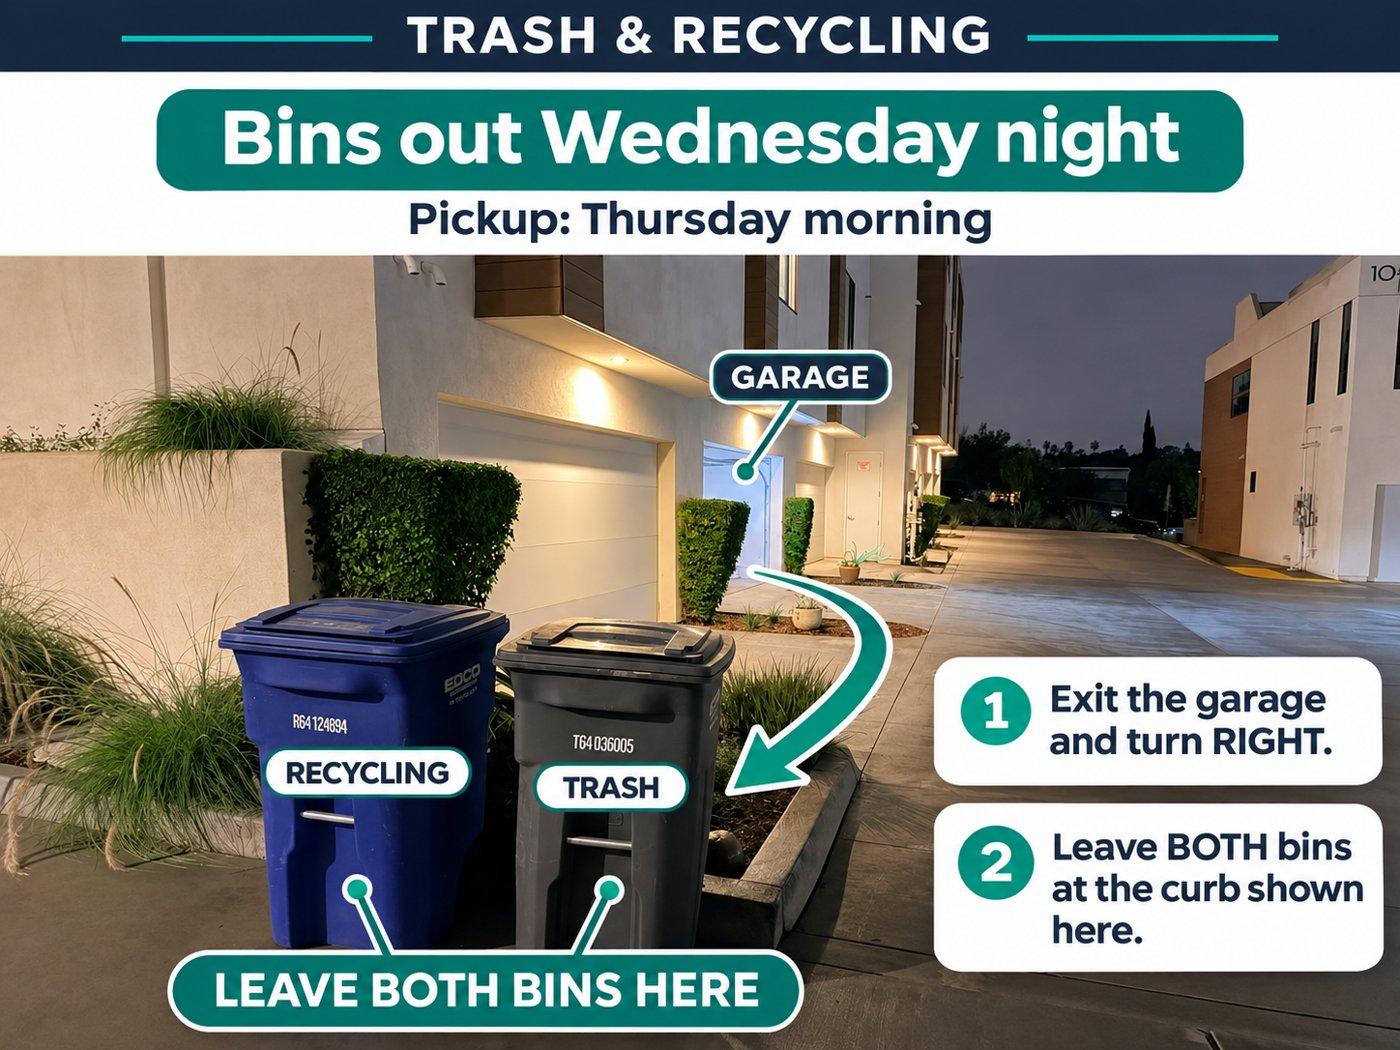
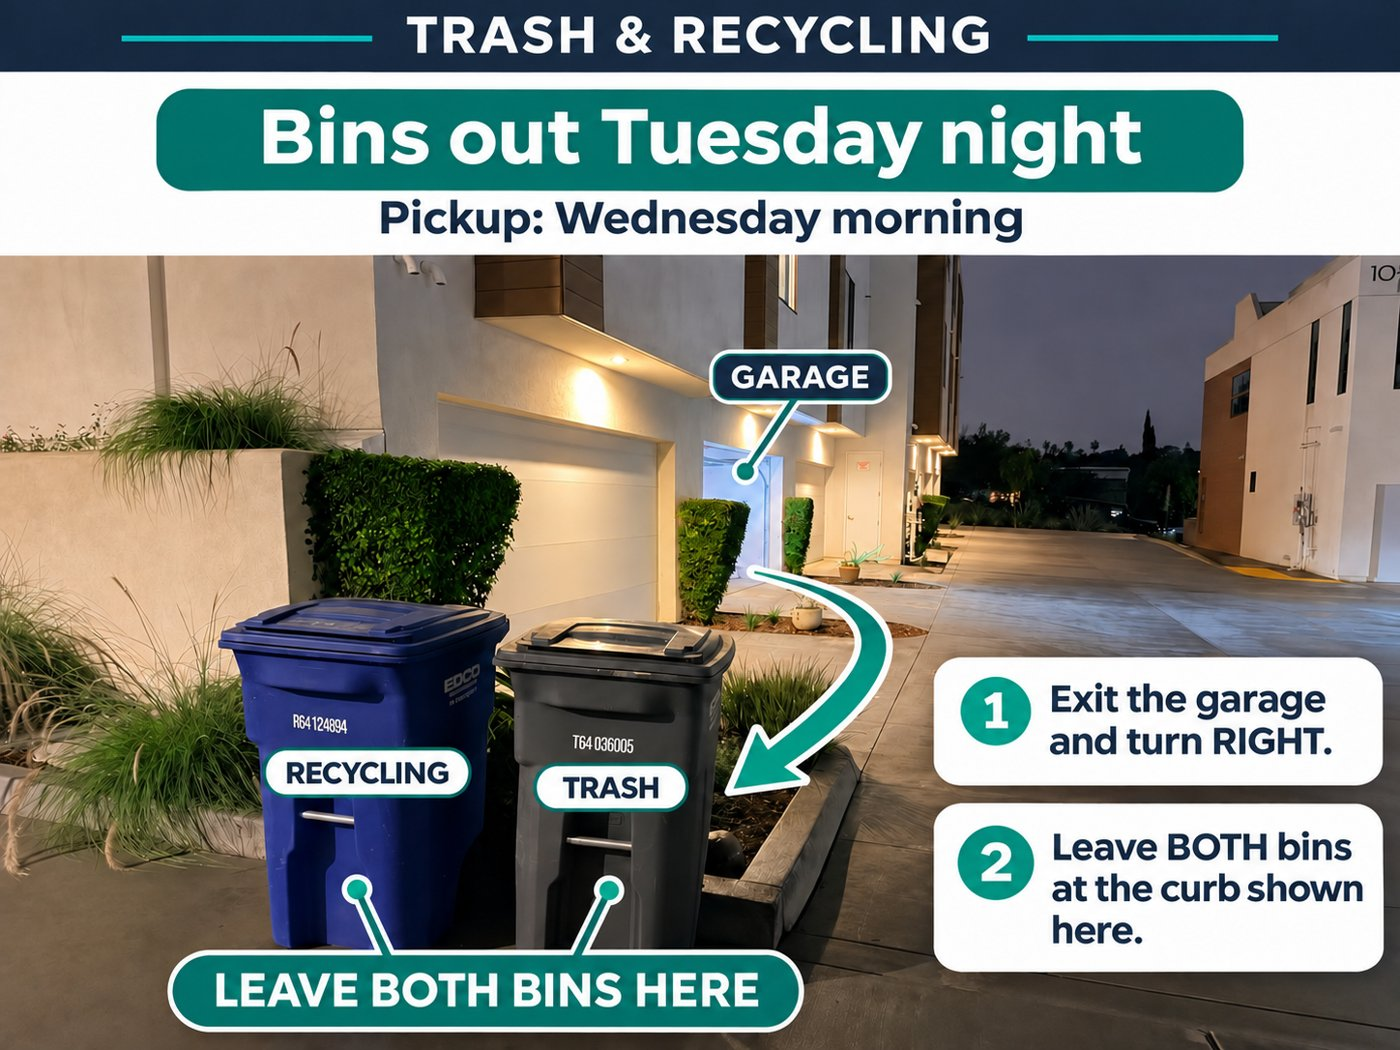
Trash pickup moved to Wednesday; new bin graphic
Claude-Session: https://claude.ai/code/session_01TvT8iKr4dTzkEDMhM2WXM5

diff --git a/cleaners/index.html b/cleaners/index.html
@@ -182,11 +182,11 @@ const GUIDE=[
   'If used: wipe down and fold the play pen',
   'If used: take down the 2 baby gates',
   'Return all baby gear to the pantry']},
- {id:'trash',title:'9. Trash & Recycling',icon:'trash-2',note:'Pickup is Thursday morning. Bins go out Wednesday night: exit the garage, turn right, and leave both bins at the curb.',items:[
+ {id:'trash',title:'9. Trash & Recycling',icon:'trash-2',note:'Pickup is Wednesday morning. Bins go out Tuesday night: exit the garage, turn right, and leave both bins at the curb.',items:[
   'Empty every trash can in the house and replace liners',
   'Take trash and recycling to the bins in the garage',
   'Break down boxes so they fit the blue recycling bin',
-  'If cleaning on a Wednesday night or Thursday: handle bins per the schedule']},
+  'If cleaning on a Tuesday night or Wednesday: put bins out Tuesday night or bring them back in after Wednesday pickup']},
  {id:'reset',title:'10. Final Reset',icon:'sparkles',items:[
   'Coffee bar: stock 8 Keurig pods for the stay',
   'Place the WiFi / guest guide sign in its spot',

diff --git a/index.html b/index.html
@@ -324,7 +324,7 @@ body{padding-bottom:calc(64px + env(safe-area-inset-bottom))}
 <section id="trash">
   <div class="sh"><span class="script">Trash &amp;</span><h2>Recycling</h2></div>
   <div class="photo" style="aspect-ratio:auto"><img src="img/trash-bins.jpg" alt="Where to put the trash and recycling bins: exit the garage, turn right, and leave both bins at the curb" loading="lazy" style="height:auto"></div>
-  <div class="card"><h3>Trash</h3><p>Trash and recycling pickup is every Thursday morning. Please roll both bins (in the garage) out to the curb Wednesday night, then bring them back into the garage after pickup on Thursday.</p></div>
+  <div class="card"><h3>Trash</h3><p>Trash and recycling pickup is every Wednesday morning. Please roll both bins (in the garage) out to the curb Tuesday night, then bring them back into the garage after pickup on Wednesday.</p></div>
   <div class="card"><h3>Recycling</h3><p>Bottles, cans, paper, and cardboard go loose in the blue bin. Please break down boxes so they fit.</p></div>
 </section>
 
